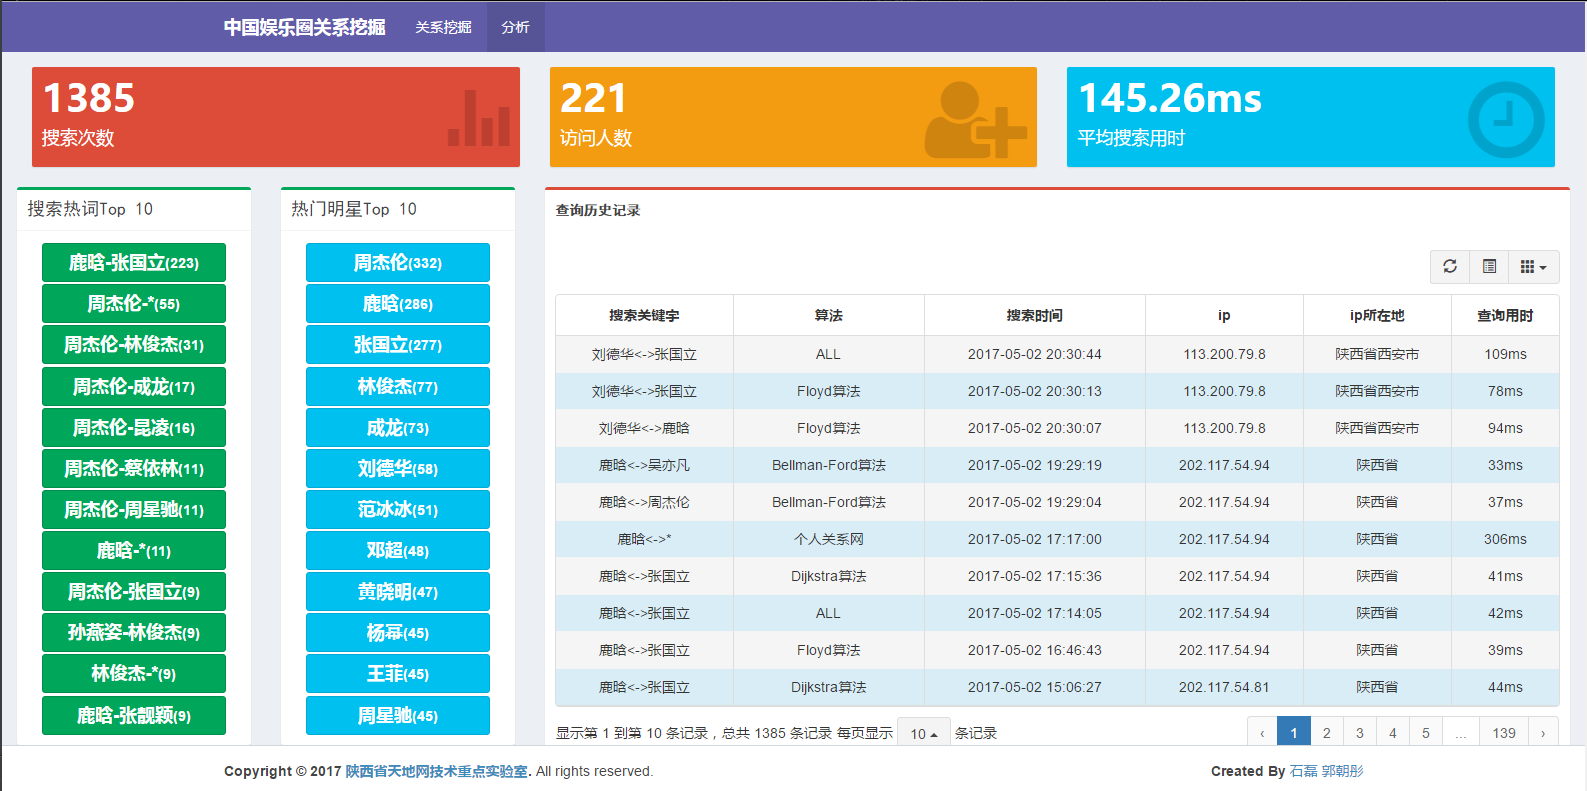
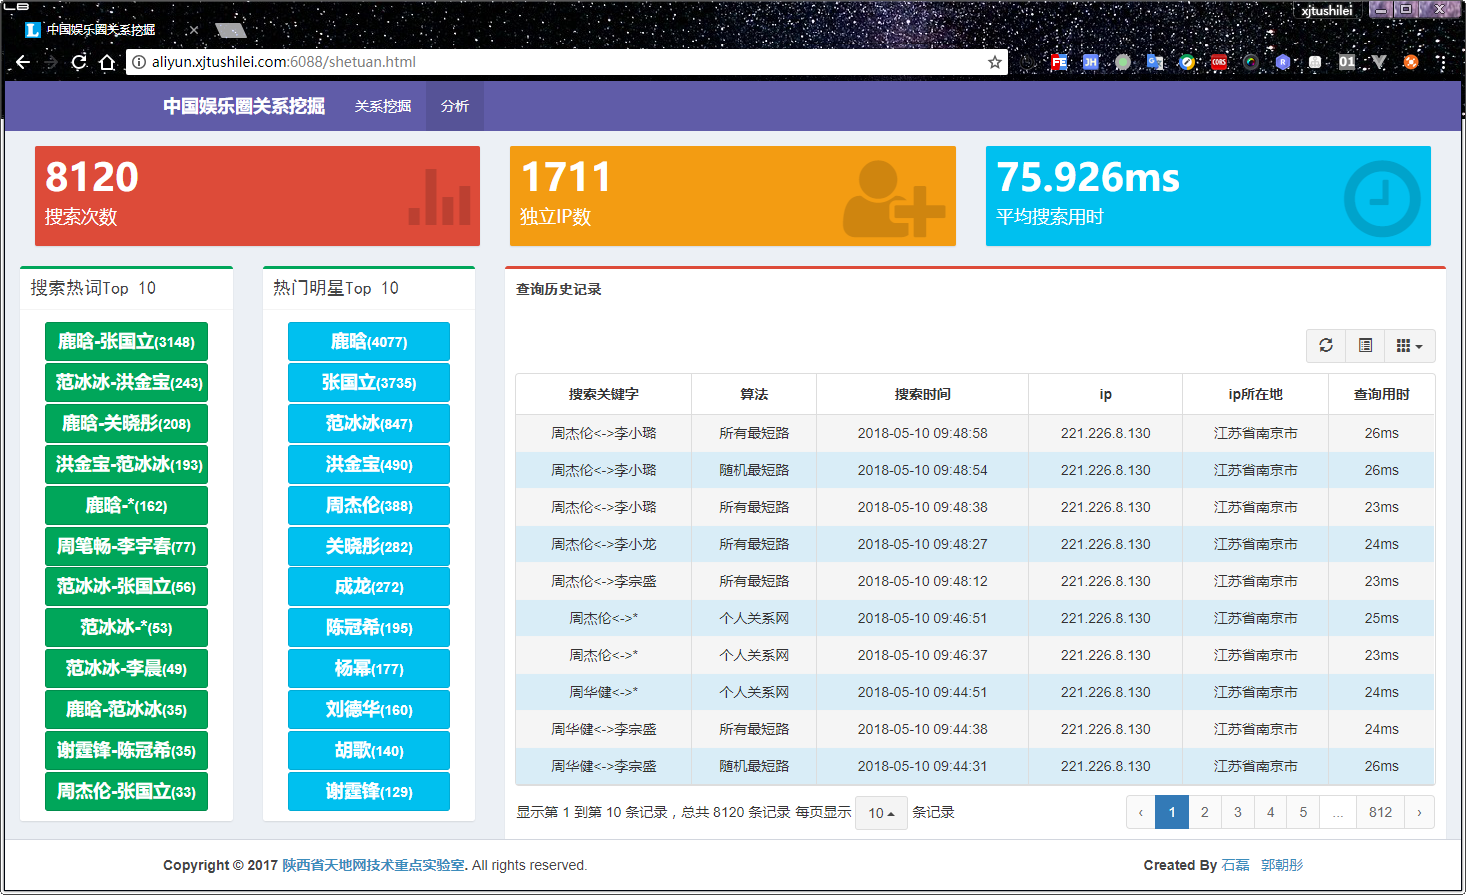
update 分析

diff --git a/readme.md b/readme.md
@@ -44,7 +44,7 @@
    
    **统计功能**
    
-   截止2017年5月2日20:11:25已经有这么多独立ip访问！这么多次浏览！
+   截止2018年5月10日11:40:38 已经有这么多独立ip访问！这么多次浏览！（之前丢过一次数据，大概800多ip，3000次访问）
    
    ![](/img/net3.png)
 
